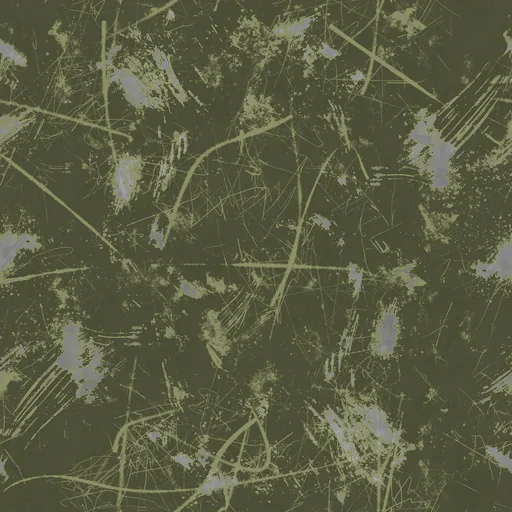
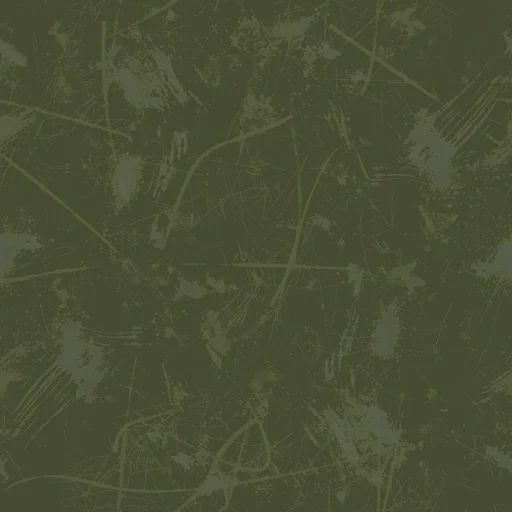
Frame the arms like HL2 and STALKER and draw them through look's overlay
The default viewmodel now has its own 56 degree FOV and sits lower right,
about a quarter to a third of a landscape screen. Sprint lowers and cants
the weapon instead of playing the ALS sprint arms, and the viewmodel stays
on the walking overlay. Rigid sleeves continue each forearm past the elbow
so the cropped arm never ends on screen. Narrow screens keep 4:3 coverage
and slide the hip framing inward. The olive paint is less worn.

The Firing Range hands its viewmodel to <Look overlay> instead of adding
its own composer pass, sprints from a fully pushed touch stick, and says
that steel clears the drill while paper only scores.

diff --git a/packages/subject-fpp/src/arms/runtime.ts b/packages/subject-fpp/src/arms/runtime.ts
@@ -4,7 +4,7 @@ import { ALS_VIRTUAL_BONES } from 'als-ue5-r3f/als/Utility/AlsVirtualBones'
 import { createRigDefinition } from 'als-ue5-r3f/engine/rig'
 import { applyPose, createPoseApplicator } from 'als-ue5-r3f/engine/applyPose'
 import { createVirtualBonePoseScratch, refreshVirtualBonePose } from 'als-ue5-r3f/engine/virtualBones'
-import { Group, Matrix4, Vector3 } from 'three'
+import { Euler, Group, Matrix4, Vector3 } from 'three'
 import { clone } from 'three/addons/utils/SkeletonUtils.js'
 import { createArmsActionClips, createFirstPersonPoseBanks, armsActionClipName } from './clips'
 import { createArmsMesh } from './geometry'
@@ -13,9 +13,11 @@ import type { ArmsAction, ArmsState, ArmsWeapon } from './state'
 
 const weaponModes = { rifle: 'BlacksiteArmsRifle', pistol: 'BlacksiteArmsPistol' } as const
 export const DEFAULT_ARMS_PRESENTATION = {
-  rifle: { position: [0.05, -1.47, -0.05], aimOffset: [0, 0, -0.08], sight: [0, 0.15937, 0.03789] },
-  pistol: { position: [0.12, -1.62, 0], aimOffset: [0, 0, 0], sight: [0, 0.0798, 0.00189] },
+  rifle: { position: [0.2, -1.6, -0.36], aimOffset: [0, 0, 0.21], sight: [0, 0.15937, 0.03789] },
+  pistol: { position: [0.24, -1.7, -0.1], aimOffset: [0, 0, 0.06], sight: [0, 0.0798, 0.00189] },
 } satisfies Record<ArmsWeapon, { position: [number, number, number]; aimOffset: [number, number, number]; sight: [number, number, number] }>
+
+const DEFAULT_ARMS_SPRINT = { pivot: new Vector3(0.2, -0.26, -0.3), position: new Vector3(0, 0.03, 0.02), rotation: new Euler(-0.1, 0.28, 0.06) }
 
 export function createArmsRuntime(assets: ArmsAssets, state: ArmsState) {
   const mesh = createArmsMesh(assets.character.scene)
@@ -72,6 +74,8 @@ export function createArmsRuntime(assets: ArmsAssets, state: ArmsState) {
   let previousRotations: Float32Array | null = null
   let aimAmount = 0
   let movementAmount = 0
+  let sprintAmount = 0
+  const sprintShift = new Vector3()
   const inverseRoot = new Matrix4()
   const sight = new Vector3()
   const input = {
@@ -102,10 +106,10 @@ export function createArmsRuntime(assets: ArmsAssets, state: ArmsState) {
       input.deltaTime = delta
       input.rotationMode = state.aiming ? 'Aiming' : 'ViewDirection'
       input.moving = state.speed > 0.05
-      input.gait = state.sprinting ? 'Sprinting' : state.speed > 1.75 ? 'Running' : 'Walking'
+      input.gait = 'Walking'
       input.gaitWalkingAmount = input.moving ? 1 : 0
-      input.gaitRunningAmount = state.speed > 1.75 ? 1 : 0
-      input.gaitSprintingAmount = state.sprinting ? 1 : 0
+      input.gaitRunningAmount = 0
+      input.gaitSprintingAmount = 0
       if (state.weapon !== previous.weapon || state.equipSequence !== previous.equip) startAction('equip', state.weapon)
       else if (state.reloadSequence !== previous.reload) startAction('reload', state.weapon)
       else if (state.fireSequence !== previous.fire) {
@@ -138,17 +142,20 @@ export function createArmsRuntime(assets: ArmsAssets, state: ArmsState) {
       for (const entry of weapons) { entry.object.visible = entry.weapon === state.weapon; entry.flash?.update(delta) }
       aimAmount += ((state.aiming ? 1 : 0) - aimAmount) * (1 - Math.exp(-16 * delta))
       movementAmount += ((input.moving ? 1 : 0) - movementAmount) * (1 - Math.exp(-12 * delta))
+      sprintAmount += ((state.sprinting && !state.aiming ? 1 : 0) - sprintAmount) * (1 - Math.exp(-10 * delta))
       const bob = Math.sin(phase * Math.PI * 2) * movementAmount * (state.sprinting ? 0.012 : 0.006) * (1 - aimAmount * 0.8)
       const framing = assets.manifest.weapons?.[state.weapon]?.presentation
       body.position.fromArray(framing?.position ?? DEFAULT_ARMS_PRESENTATION[state.weapon].position)
       const aimOffset = framing?.aimOffset ?? DEFAULT_ARMS_PRESENTATION[state.weapon].aimOffset
-      root.rotation.z = Math.cos(phase * Math.PI * 2) * movementAmount * 0.006 * (1 - aimAmount)
+      const sprint = DEFAULT_ARMS_SPRINT
+      root.rotation.set(sprint.rotation.x * sprintAmount, sprint.rotation.y * sprintAmount, sprint.rotation.z * sprintAmount + Math.cos(phase * Math.PI * 2) * movementAmount * (state.sprinting ? 0.02 : 0.006) * (1 - aimAmount))
+      sprintShift.copy(sprint.pivot).applyEuler(root.rotation).negate().add(sprint.pivot).addScaledVector(sprint.position, sprintAmount)
       root.updateWorldMatrix(true, true)
       inverseRoot.copy(root.matrixWorld).invert()
       const weaponObject = weapons.find(entry => entry.weapon === state.weapon)!.object
       sight.fromArray(framing?.sight ?? DEFAULT_ARMS_PRESENTATION[state.weapon].sight)
         .applyMatrix4(weaponObject.matrixWorld).applyMatrix4(inverseRoot).applyQuaternion(root.quaternion)
-      root.position.set(aimAmount * (aimOffset[0] - sight.x), bob + aimAmount * (aimOffset[1] - sight.y), aimAmount * aimOffset[2])
+      root.position.set(aimAmount * (aimOffset[0] - sight.x), bob + aimAmount * (aimOffset[1] - sight.y), aimAmount * aimOffset[2]).add(sprintShift)
       root.updateMatrix()
       state.debug.animationSeconds = clock
       state.debug.frames++

diff --git a/site/src/showcases/firing-range/main.tsx b/site/src/showcases/firing-range/main.tsx
@@ -2,9 +2,8 @@ import { useCallback, useEffect, useMemo, useRef, useState } from 'react'
 import { createRoot } from 'react-dom/client'
 import * as THREE from 'three'
 import { Canvas, useFrame, useThree } from '@react-three/fiber'
-import { RenderPass } from 'postprocessing'
 import { Look } from '@blacksite/look/r3f'
-import { autoQuality, type Look as LookHandle, type QualityTier } from '@blacksite/look'
+import { autoQuality, type QualityTier } from '@blacksite/look'
 import { ALS_WEAPONS, createWeaponRuntime, type QueryHit, type WeaponEvent } from '@blacksite/armory'
 import { StandaloneSubject, createStandaloneRecoil, createStandaloneTouch, type StandaloneIntent } from '@blacksite/subject-fpp'
 import { ArmsViewmodel, createArmsState, portraitFov, type ArmsPresentation } from '@blacksite/subject-fpp/arms'
@@ -38,19 +37,6 @@ const eye = 1.63
 
 drill.set({ cleared: steelSet.steel.map(() => false) })
 
-function ArmsPass({ look, presentation }: { look: LookHandle | null; presentation: ArmsPresentation | null }) {
-  useEffect(() => {
-    if (!look || !presentation) return
-    const pass = new RenderPass(presentation.scene, presentation.camera)
-    pass.clearPass.color = false
-    pass.clearPass.depth = true
-    pass.ignoreBackground = true
-    look.composer.addPass(pass, 2)
-    return () => { look.composer.removePass(pass); pass.dispose() }
-  }, [look, presentation])
-  return null
-}
-
 function Scene({ tier, onReady }: { tier: QualityTier; onReady: () => void }) {
   const camera = useThree(state => state.camera) as THREE.PerspectiveCamera
   const gl = useThree(state => state.gl)
@@ -59,7 +45,6 @@ function Scene({ tier, onReady }: { tier: QualityTier; onReady: () => void }) {
   const recoil = useMemo(createStandaloneRecoil, [])
   const effects = useMemo(() => createEffects(scene), [scene])
   const weapon = useMemo(() => createWeaponRuntime({ ownerId: 'player', seed: 7, definitions, initialWeaponId: 'rifle' }), [])
-  const [look, setLook] = useState<LookHandle | null>(null)
   const [presentation, setPresentation] = useState<ArmsPresentation | null>(null)
   const shadows = tier !== 'low'
   const lights = useMemo(() => {
@@ -213,7 +198,7 @@ function Scene({ tier, onReady }: { tier: QualityTier; onReady: () => void }) {
     scratch.forward.y = 0
     scratch.forward.normalize()
     scratch.right.set(-scratch.forward.z, 0, scratch.forward.x)
-    const sprinting = state.sprint && intent.forward > 0.3 && !state.firing && !arms.aiming
+    const sprinting = (state.sprint || touchInput.forward > 0.92) && intent.forward > 0.3 && !state.firing && !arms.aiming
     const speed = sprinting ? 5.2 : arms.aiming ? 1.8 : 3.1
     const moveX = scratch.forward.x * intent.forward + scratch.right.x * intent.right
     const moveZ = scratch.forward.z * intent.forward + scratch.right.z * intent.right
@@ -257,7 +242,7 @@ function Scene({ tier, onReady }: { tier: QualityTier; onReady: () => void }) {
   })
 
   return <>
-    <Look atmosphere="zone" quality={tier} environment sun={lights.sun} fill={lights.fill} onReady={setLook} />
+    <Look atmosphere="zone" quality={tier} environment sun={lights.sun} fill={lights.fill} overlay={presentation} />
     <primitive object={lights.sun} />
     <primitive object={lights.sun.target} />
     <primitive object={lights.fill} />
@@ -265,7 +250,6 @@ function Scene({ tier, onReady }: { tier: QualityTier; onReady: () => void }) {
     <primitive object={range.group} />
     <primitive object={steelSet.group} />
     <ArmsViewmodel state={arms} render="external" onPresentation={setPresentation} />
-    <ArmsPass look={look} presentation={presentation} />
     <StandaloneSubject onIntent={writeIntent} onFire={useCallback((firing: boolean, aim: { origin: THREE.Vector3; direction: THREE.Vector3 }) => { control.current.firing = firing; control.current.aim.direction.copy(aim.direction) }, [])} onReload={useCallback(() => { control.current.reload = true }, [])} touch={touchInput} recoil={recoil} sensitivity={Math.min(1, camera.fov / 72)} />
   </>
 }
@@ -297,7 +281,7 @@ function Hud({ touch }: { touch: boolean }) {
   const total = view.cleared.length
   const done = view.cleared.filter(Boolean).length
   const accuracy = view.shots ? Math.round(view.hits / view.shots * 100) : 0
-  const label = view.phase === 'ready' ? 'Steel drill · first shot starts the clock' : view.phase === 'running' ? `Steel ${done}/${total} · Score ${view.score}` : `Clear · Score ${view.score} · ${accuracy}% hits`
+  const label = view.phase === 'ready' ? 'Steel clears · paper scores' : view.phase === 'running' ? `Steel ${done}/${total} · Score ${view.score}` : `Clear · Score ${view.score} · ${accuracy}% hits`
   return <div className="range-hud">
     <Status label={label} value={formatTime(view.time)} tone={undefined} />
     <div className="range-pips" aria-hidden="true">

diff --git a/packages/subject-fpp/src/arms/dress.ts b/packages/subject-fpp/src/arms/dress.ts
@@ -1,5 +1,5 @@
 import {
-  AdditiveBlending, BufferGeometry, CanvasTexture, Color, DoubleSide, Group, Mesh, MeshBasicMaterial, MeshStandardMaterial,
+  AdditiveBlending, BufferGeometry, CanvasTexture, Color, CylinderGeometry, DoubleSide, Group, Mesh, MeshBasicMaterial, MeshStandardMaterial,
   PlaneGeometry, PointLight, RepeatWrapping, SRGBColorSpace, SkinnedMesh, TextureLoader, Vector2, type Material, type Object3D, type Texture,
 } from 'three'
 import sleeveColor from '../../assets/materials/sleeve_c.webp?url'
@@ -105,6 +105,9 @@ export async function loadArmsDress() {
     return [name, material]
   })) as Record<Finish, MeshStandardMaterial>
   const flash = flashTexture()
+  const cuff = materials.sleeve.clone()
+  cuff.side = DoubleSide
+  const sleeves: BufferGeometry[] = []
   return {
     arms(scene: Object3D) {
       scene.traverse(object => {
@@ -112,6 +115,18 @@ export async function loadArmsDress() {
         const sources = Array.isArray(object.material) ? object.material : [object.material]
         object.material = sources.map((material: Material) => /^Hand_/.test(material.name) ? materials.glove : materials.sleeve)
       })
+      for (const side of [1, -1]) {
+        const bone = scene.getObjectByName(side > 0 ? 'lowerarm_l' : 'lowerarm_r')
+        if (!bone) continue
+        const geometry = new CylinderGeometry(side > 0 ? 0.052 : 0.064, side > 0 ? 0.064 : 0.052, 0.5, 14, 1, true)
+        geometry.rotateZ(-Math.PI / 2)
+        geometry.translate(side * -0.19, 0, 0)
+        sleeves.push(geometry)
+        const sleeve = new Mesh(geometry, cuff)
+        sleeve.name = 'BlacksiteArmsSleeve'
+        sleeve.frustumCulled = false
+        bone.add(sleeve)
+      }
     },
     weapon(weapon: ArmsWeapon, object: Object3D) {
       object.traverse(child => {
@@ -122,6 +137,8 @@ export async function loadArmsDress() {
     },
     flash: (weapon: ArmsWeapon, object: Object3D) => createMuzzleFlash(object, flash, weapon),
     dispose() {
+      cuff.dispose()
+      for (const geometry of sleeves) geometry.dispose()
       for (const material of Object.values(materials)) { material.map?.dispose(); material.normalMap?.dispose(); material.dispose() }
       for (const texture of textures.values()) texture.dispose()
       flash.dispose()

diff --git a/packages/subject-fpp/src/ArmsViewmodel.tsx b/packages/subject-fpp/src/ArmsViewmodel.tsx
@@ -38,16 +38,17 @@ function LoadedArmsViewmodel({ state, visible = true, manifestUrl, render = 'com
   const renderer = useThree(state => state.gl)
   const assets = use(preloadArmsAssets(manifestUrl, renderer))
   const runtime = useMemo(() => createArmsRuntime(assets, state), [assets, state])
+  const fov = assets.manifest.fov ?? 56
   const presentation = useMemo(() => {
     const scene = new Scene()
-    const camera = new PerspectiveCamera(assets.manifest.fov ?? 70, 1, 0.005, 10)
+    const camera = new PerspectiveCamera(fov, 1, 0.005, 10)
     camera.add(runtime.root)
     scene.add(camera, new HemisphereLight('#dfe6ea', '#4a4638', 1.9))
     const light = new DirectionalLight('#fff3e2', 2.2)
     light.position.set(-1, 3, 2)
     camera.add(light, light.target)
     return { scene, camera }
-  }, [assets, runtime])
+  }, [fov, runtime])
   useEffect(() => () => runtime.dispose(), [runtime])
   useEffect(() => {
     onPresentation?.(presentation)
@@ -60,8 +61,10 @@ function LoadedArmsViewmodel({ state, visible = true, manifestUrl, render = 'com
     camera.getWorldPosition(view.position)
     camera.getWorldQuaternion(view.quaternion)
     const aspect = size.width / size.height
-    const fov = portraitFov(assets.manifest.fov ?? 70, aspect, NARROWEST_ASPECT)
-    if (view.aspect !== aspect || view.fov !== fov) { view.aspect = aspect; view.fov = fov; view.updateProjectionMatrix() }
+    const vertical = portraitFov(fov, aspect, NARROWEST_ASPECT)
+    const narrow = Math.min(1, Math.max(0, (NARROWEST_ASPECT - aspect) / (NARROWEST_ASPECT - 0.5)))
+    const shift = Math.round(narrow * (1 - state.debug.aimAmount) * 0.16 * view.getFilmWidth() * 1000) / 1000
+    if (view.aspect !== aspect || view.fov !== vertical || view.filmOffset !== shift) { view.aspect = aspect; view.fov = vertical; view.filmOffset = shift; view.updateProjectionMatrix() }
     view.updateWorldMatrix(true, true)
     presentation.scene.environment = scene.environment
     presentation.scene.visible = visible

diff --git a/site/src/showcases/firing-range/firing-range.css b/site/src/showcases/firing-range/firing-range.css
@@ -24,3 +24,4 @@
   .range-hud .hud-status { top: calc(40px + env(safe-area-inset-top)); bottom: auto; }
   .range-pips { top: calc(86px + env(safe-area-inset-top)); bottom: auto; }
 }
+.range-hud .hud-status span { white-space: nowrap; }

diff --git a/docs/arms.md b/docs/arms.md
@@ -13,7 +13,7 @@ Each generated game has `public/assets/arms.json`, initially `{ "version": 1 }`.
 ```json
 {
   "version": 1,
-  "fov": 70,
+  "fov": 56,
   "weapons": {
     "rifle": {
       "meshUrl": "/assets/owned/infima/rifle.glb",
@@ -51,9 +51,9 @@ The default ALS rifle calibration is:
 
 ```json
 {
-  "position": [0.05, -1.47, -0.05],
+  "position": [0.2, -1.6, -0.36],
   "sight": [0, 0.15937, 0.03789],
-  "aimOffset": [0, 0, -0.08]
+  "aimOffset": [0, 0, 0.21]
 }
 ```
 
@@ -61,11 +61,15 @@ The viewmodel keeps all 68 physical bones while rendering only forearms and hand
 
 ## Dress
 
-The default mannequin and ALS weapons are dressed at load with CC0 materials from `packages/subject-fpp/assets/materials`: an olive sleeve, leather gloves, gunmetal, worn olive paint, polymer and brass. Rifle and pistol triangles are regrouped by skinning bone and position into those finishes. Each weapon gets a muzzle flash and light on its `muzzle` bone, driven by `fireSequence`. A manifest `characterUrl` or weapon `meshUrl` keeps that asset's own materials.
+The default mannequin and ALS weapons are dressed at load with CC0 materials from `packages/subject-fpp/assets/materials`: an olive sleeve, leather gloves, gunmetal, worn olive paint, polymer and brass. Rifle and pistol triangles are regrouped by skinning bone and position into those finishes. Each forearm carries a rigid sleeve that runs past the elbow and off screen, so the cropped arm never ends in view. Each weapon gets a muzzle flash and light on its `muzzle` bone, driven by `fireSequence`. A manifest `characterUrl` or weapon `meshUrl` keeps that asset's own materials.
+
+## Framing
+
+The viewmodel camera has its own 56° vertical FOV (manifest `fov`), independent of the world camera. At rest the rifle sits lower right and spans roughly a quarter to a third of a landscape screen; aiming centres the measured sight. Sprinting lowers and cants the weapon procedurally instead of playing the ALS sprint arms pose. Below a 4:3 aspect the viewmodel widens its vertical FOV to keep 4:3 horizontal coverage and shifts its hip framing inward, returning to centre as aim blends in. `portraitFov(fov, aspect, minimum)` exposes the same widening for the world camera.
 
 ## Composition
 
-By default the viewmodel renders the arms itself after the world. With a post stack such as `@blacksite/look`, pass `render="external"` and `onPresentation`, then add a `RenderPass(presentation.scene, presentation.camera)` to the composer with `clearPass.color = false`, `clearPass.depth = true` and `ignoreBackground = true`. Inserted before bloom and the grade, the arms share the world's grade and environment light. `portraitFov(fov, aspect)` widens vertical FOV below a 0.8 aspect so portrait phones keep the weapon in frame; the viewmodel applies it to its own camera.
+By default the viewmodel renders the arms itself after the world. With `@blacksite/look`, pass `render="external"` and `onPresentation`, then hand the presentation to Look: `<Look overlay={presentation} />` in React Three Fiber, or `look.addOverlay(presentation.scene, presentation.camera)` in plain three. Look draws it after AO and before bloom, the grade and grain, so the arms match the world. The viewmodel keeps its lights in the presentation scene and sets its own camera aspect.
 
 `StandaloneSubject` also accepts `touch` (`createStandaloneTouch()`: move, look deltas and fire), `recoil` (`createStandaloneRecoil()`: add Armory shot recoil; part climbs, part kicks back) and `sensitivity` (scale look while aiming).
 
